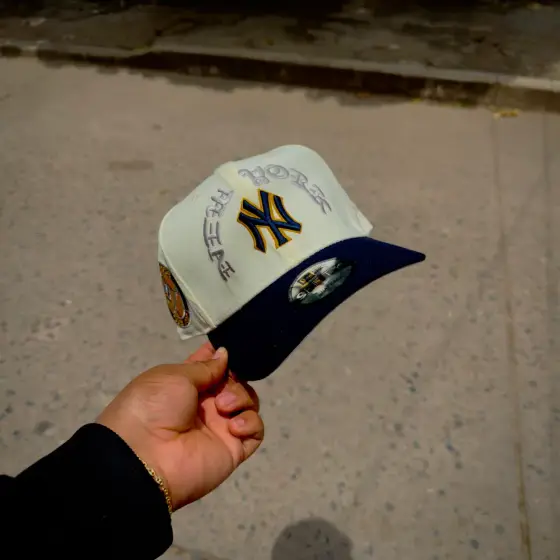
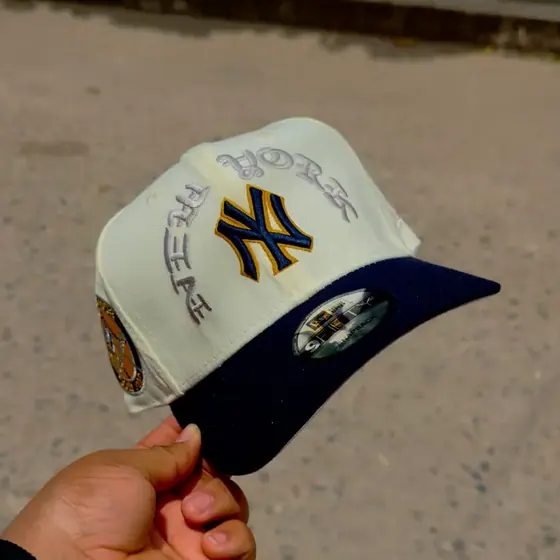
Gorras con foto limpia en el combo y zuecos a $149.900
- Combo y tira de redes: las gorras usan el recorte de una sola vista (-card),
  como la tienda, en vez de la foto completa (muchas son collages de 4 vistas)
- 5 gorras de foto de calle con recorte más cerrado para que la gorra se vea
  grande (Yankees negro/verde, Cardinals rojo, Yankees mostaza, Yankees crema,
  Dodgers palmera)
- Zuecos a $149.900 (precio del dueño): ya no queda ningún producto sin precio

diff --git a/js/data/zapatos.js b/js/data/zapatos.js
@@ -1975,7 +1975,7 @@ export const ZAPATOS = [
     "tag": "Crema / Café / Blanco",
     "color": "Crema / Café / Blanco",
     "alt": "Zuecos Adidas Samba Mule color crema / café / blanco",
-    "precio": null,
+    "precio": 149900,
     "tipo": "Zuecos",
     "genero": "hombre",
     "origen": "nuevos #84"
@@ -2311,7 +2311,7 @@ export const ZAPATOS = [
     "tag": "Café gamuza",
     "color": "Café gamuza",
     "alt": "Zuecos Adidas Adimule color café gamuza",
-    "precio": null,
+    "precio": 149900,
     "tipo": "Zuecos",
     "genero": "hombre",
     "origen": "nuevos #132"
@@ -2490,7 +2490,7 @@ export const ZAPATOS = [
     "tag": "Caqui gamuza",
     "color": "Caqui gamuza",
     "alt": "Zuecos Adidas Adimule color caqui gamuza",
-    "precio": null,
+    "precio": 149900,
     "tipo": "Zuecos",
     "genero": "hombre",
     "origen": "nuevos #158"
@@ -2811,7 +2811,7 @@ export const ZAPATOS = [
     "tag": "Crema / Rosa / Gris",
     "color": "Crema / Rosa / Gris",
     "alt": "Zuecos Adidas Samba Mule color crema / rosa / gris",
-    "precio": null,
+    "precio": 149900,
     "tipo": "Zuecos",
     "genero": "dama",
     "origen": "nuevos #200"
@@ -3380,7 +3380,7 @@ export const ZAPATOS = [
     "tag": "Negro gamuza",
     "color": "Negro gamuza",
     "alt": "Zuecos Adidas Adimule color negro gamuza",
-    "precio": null,
+    "precio": 149900,
     "tipo": "Zuecos",
     "genero": "hombre",
     "origen": "nuevos #277"
@@ -3392,7 +3392,7 @@ export const ZAPATOS = [
     "tag": "Turquesa / Verde / Menta",
     "color": "Turquesa / Verde / Menta",
     "alt": "Zuecos Nike Mind 001 color turquesa / verde / menta",
-    "precio": null,
+    "precio": 149900,
     "tipo": "Zuecos",
     "genero": "hombre",
     "origen": "nuevos #278"
@@ -4399,7 +4399,7 @@ export const ZAPATOS = [
     "tag": "Vinotinto / Rojo",
     "color": "Vinotinto / Rojo",
     "alt": "Zuecos Nike Mind 001 color vinotinto / rojo",
-    "precio": null,
+    "precio": 149900,
     "tipo": "Zuecos",
     "genero": "hombre",
     "origen": "nuevos #414"
@@ -4787,7 +4787,7 @@ export const ZAPATOS = [
     "tag": "Gris / Azul",
     "color": "Gris / Azul",
     "alt": "Zuecos Nike Mind 001 color gris / azul",
-    "precio": null,
+    "precio": 149900,
     "tipo": "Zuecos",
     "genero": "hombre",
     "origen": "nuevos #472"

diff --git a/js/sections/combo.js b/js/sections/combo.js
@@ -69,7 +69,7 @@ function pintarThumbs(cont, linea) {
     .map((p) => `
       <button class="combo__thumb${p === item ? ' is-active' : ''}" type="button" role="option"
               aria-selected="${p === item}" data-id="${p.id}" title="${p.name} — ${p.tag}">
-        <img data-src="${p.srcSm}" alt="${p.alt}" loading="lazy" decoding="async" width="120" height="120">
+        <img data-src="${p.srcCard || p.srcSm}" alt="${p.alt}" loading="lazy" decoding="async" width="120" height="120">
       </button>`)
     .join('');
   vigilarFotos(cont);
@@ -136,7 +136,7 @@ export function initCombo() {
     const preview = r.img?.parentElement;
     if (preview) preview.classList.add('is-swapping');
     setTimeout(() => {
-      r.img.src = item.srcSm;
+      r.img.src = item.srcCard || item.srcSm;
       r.img.alt = item.alt;
       r.name.textContent = item.name;
       r.tag.textContent = `${item.tag} · ${precioCOP(item.precio)}`;

diff --git a/js/sections/storytelling.js b/js/sections/storytelling.js
@@ -85,7 +85,7 @@ export function initSocialStrip() {
   if (!strip) return;
   const muestra = [...TODOS].sort(() => 0.5 - Math.random()).slice(0, 12);
   strip.innerHTML = muestra
-    .map((p) => `<div class="social__thumb"><img src="${p.srcSm}" alt="${p.alt}" loading="lazy" decoding="async" width="300" height="300"></div>`)
+    .map((p) => `<div class="social__thumb"><img src="${p.srcCard || p.srcSm}" alt="${p.alt}" loading="lazy" decoding="async" width="300" height="300"></div>`)
     .join('');
 }
 
